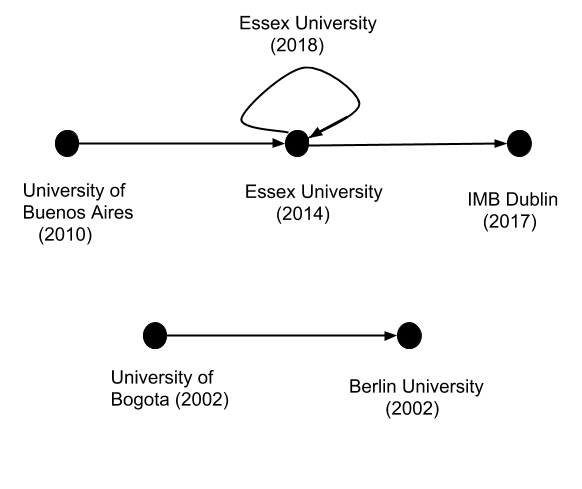
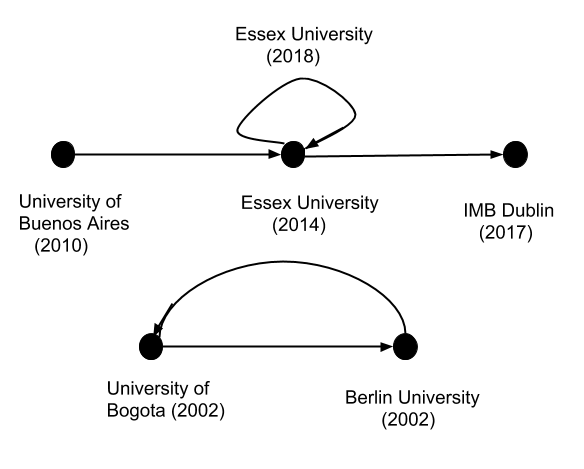
more on introduction

diff --git a/main.tex b/main.tex
@@ -91,19 +91,19 @@ Luis Fernandez left his origin country (Argentina) in  $2005$ for doing a PHD in
 \begin{figure}[!t]
 \centering
 \includegraphics[scale=0.3]{./images/trajectory.png}
-\caption{}
+\caption{The graph in the top demonstrates Luis Fernandez's trajectory while the bottom one shows a local expert trajectory. }
 \label{fig:traj}
 \end{figure}
 %%%%%%%%%
 
-\PA{may be some sate of the art should be added through the following explanation}\\
-In this work, we are interested in extracting a trajectory of a given expert including his organisation names and their related years.  For instance, a researcher as ``Luis Fernandez" has a mobile and changeable professional trajectory as figure~\ref{fig:traj} (top graph) while another person (the bottom graph) has a imobile professional trajectory. 
+\PA{may be some state of the art should be added through the following explanation}\\
+In this work, we are interested in extracting a trajectory for each given expert including her organisation names and the related years by searching their given names through the web and extracting as accurate as possible name entities (In the rest of this work, by the name entities we mean the organisation names, university names or dates) from the web.  For instance, a researcher as ``Luis Fernandez" has a mobile professional trajectory with various oraganisations and year of experience as figure~\ref{fig:traj} (top graph) though another person (the bottom graph) has a local professional trajectory and he works in his original country recently.  
 
-An intuitive approach for tracking an expert professional trajectory contains two parts: querying various research engines with different keywords and extracting name entities (such as organisation names and years) from the list of snippets generated by each query. Here the main dilemma is that when is the proper moment for generating a new query and which snippets should be selected to extract more informative information w.r.t the expert professional trajectory. %According to figure~\ref{fig:navigate} 
+An intuitive approach for tracking an expert professional trajectory contains two parts: querying various search engines with different keywords and extracting name entities from the list of snippets generated by each query. Here the main dilemma is that when is the proper moment for generating a new query and which snippets should be taken into account for extracting more accurate name entities w.r.t the expert professional trajectory. %According to figure~\ref{fig:navigate} 
 
-In this paper, we propose a method for extracting information of each expert's professional track using deep reinforcement learning (deep RL) approach. Deep Q-network usage in various problems motivate us concentrating on this approach. Some recent examples of these types of problems are information extraction \citep{narasimhan2016improving}, object detection in images \cite{Caicedo2015}, solving arithmetic word problems \cite{wang2018} and text generation \citep{Guo2015}. Inspiring Narasimhan et al. \shortcite{narasimhan2016improving} work on information extraction problem on huge size search space and regarding our goal for tracking experts, we consider deep Q-network and various neural network models to learn Q-value functions and approximate the optimal research track (i.e. optimal policy) for any given expert name.  
+In this paper, we propose a method for tracking each given expert's profession using deep reinforcement learning (DRL) approach. Deep Q-network usage in various problems and the tracking issue as a planning problem motivate us concentrating on this approach. Some recent problems have been solved by using Deep Q-network method such as information extraction \citep{narasimhan2016improving}, object detection in images \cite{Caicedo2015}, solving arithmetic word problems \cite{wang2018} and text generation \citep{Guo2015}. Inspiring Narasimhan et al. \shortcite{narasimhan2016improving} work on the information extraction problem for huge size search spaces and regarding tracking expert problem as a optimal policy search in RL, we consider deep Q-network and various neural network models to learn Q-value functions and approximate the optimal expert's track for a given expert name.  
 
-Our main contributions in this paper are a the following:
+Our main contributions in this paper are as the following:
 \begin{itemize}
 \item To the best of our knowledge, a people tracking system based on Deep RL methods is first presented in this paper.
 \item The Q-value function depends on the sequence of selection snippets through the web. For this reason, we replace the neural network of Deep Q-network with a long Short Term Memory (LSTM) and \PA{improves the result by \%  }
@@ -130,8 +130,10 @@ In this section we review the literature of the used \textit{Deep Reinforcement 
 
 \section{Framework and Solution}
 \input{framework.tex}
+
 \section{Data}
 \input{data.tex}
+
 \section{Experiments}
 
 \section{Conclusions}

diff --git a/framework.tex b/framework.tex
@@ -1,3 +1,4 @@
+
 %%%%%%%%
 \begin{figure}[!t]
 \centering
